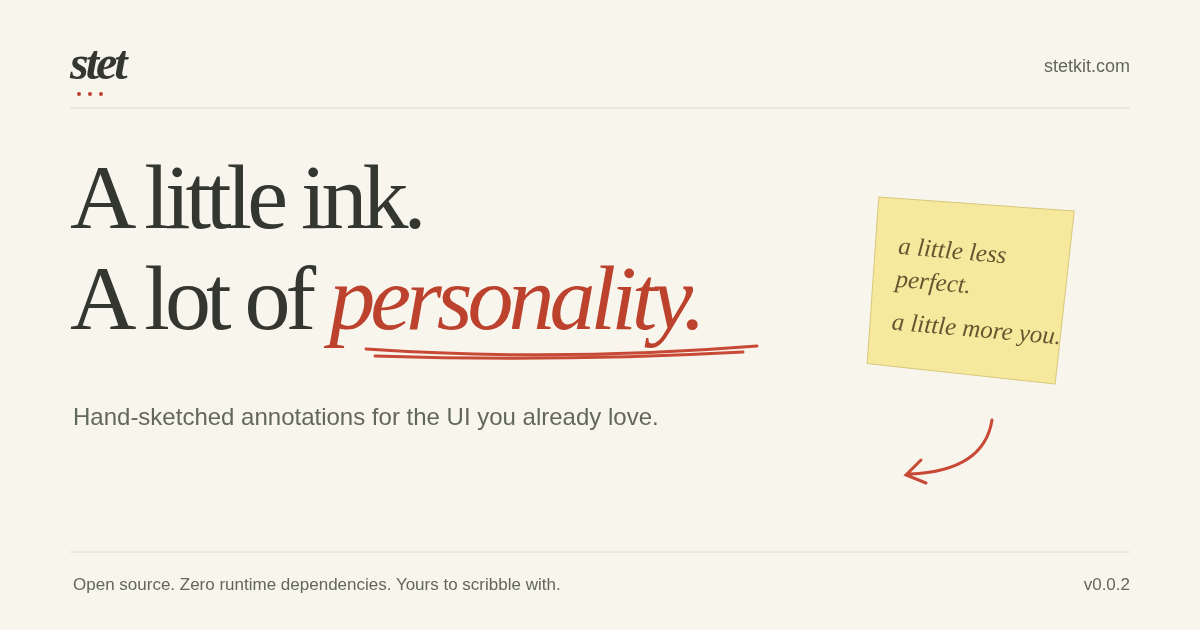
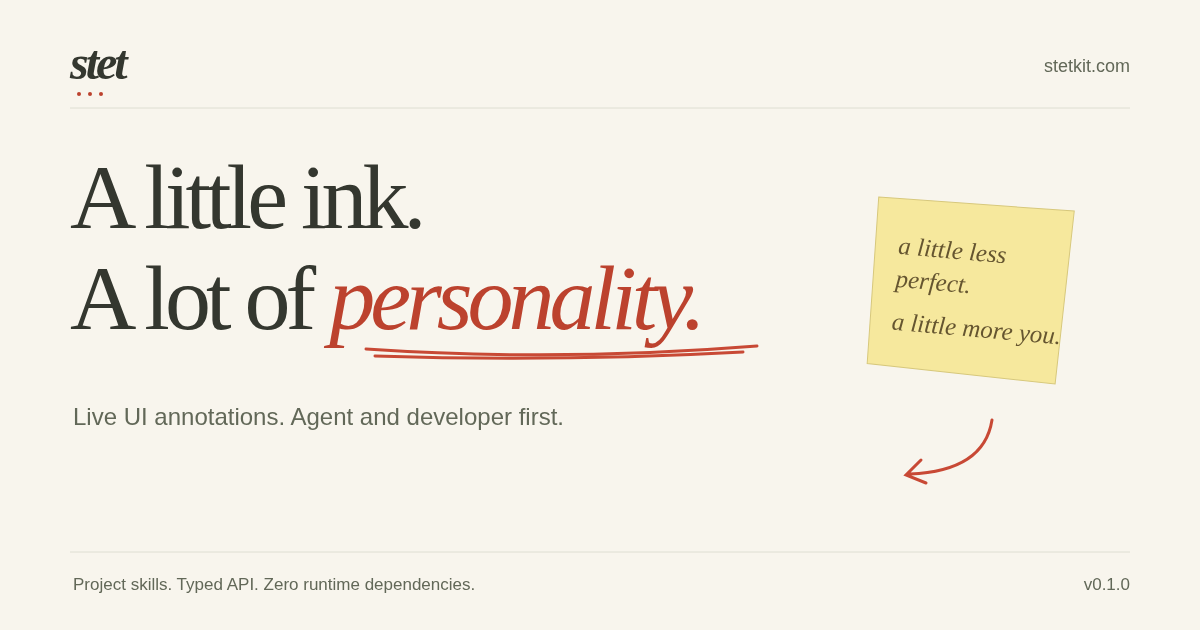
Present Stet as agent and developer first across docs and website

Changed region(s): [[0.0617, 0.6333, 0.555, 0.6937], [0.0617, 0.9048, 0.4625, 0.9349], [0.925, 0.9048, 0.9558, 0.9349]]

diff --git a/website/src/pages/Home.tsx b/website/src/pages/Home.tsx
@@ -9,13 +9,13 @@ import { HeroDemo } from '../components/HeroDemo';
 import { Sketchbook } from '../components/Sketchbook';
 export function Home() {
   const personality = useRef<HTMLElement>(null);
-  usePageMeta('stet — a little ink, a lot of personality', '/');
+  usePageMeta('stet — live UI annotations for agents and developers', '/');
   return (
     <main id="main">
       <section className="hero">
         <div className="hero-copy">
-          <a className="release-pill" href="https://www.npmjs.com/package/@funsaized/stet/v/0.0.2">
-            <span className="status-dot" /> Fresh off the drawing board <span>v0.0.2 ↗</span>
+          <a className="release-pill" href="https://www.npmjs.com/package/@funsaized/stet/v/0.1.0">
+            <span className="status-dot" /> Fresh off the drawing board <span>v0.1.0 ↗</span>
           </a>
           <h1>
             A little ink.
@@ -32,8 +32,8 @@ export function Home() {
             width={2.8}
           />
           <p className="hero-description">
-            Hand-sketched annotations for the UI you already love. Circle the good stuff. Leave a
-            little note. Make the internet feel human.
+            Hand-sketched annotations for live UI. Built for coding agents and developers, with
+            project skills and a typed API that work on the controls you already have.
           </p>
           <div className="hero-actions">
             <Link className="button primary" to="/playground">
@@ -72,13 +72,16 @@ export function Home() {
       </div>
       <section id="install" className="principles section">
         <div className="principles-intro">
-          <span className="eyebrow">02 / SMALL TOOLKIT. BIG FEELING.</span>
+          <span className="eyebrow">02 / AGENT AND DEVELOPER FIRST.</span>
           <h2>
-            A guest in your UI.
+            Your agent. Your code.
             <br />
-            <em>A very good guest.</em>
+            <em>The same little marks.</em>
           </h2>
-          <p>One install. A layer of character. All the things you already built, still yours.</p>
+          <p>
+            Install Stet, then add marks with your coding agent or write them yourself. Your UI
+            keeps its layout, focus, and clicks.
+          </p>
           <CopyButton value={INSTALL} className="install-command">
             <span className="dollar">$</span>
             <code>{INSTALL}</code>
@@ -91,25 +94,25 @@ export function Home() {
               <Icon name="check" size={14} /> TypeScript ready
             </span>
           </div>
-          <Link to="/docs" hash="how-it-works" className="text-link">
-            A peek under the paper <Icon name="arrow" size={16} />
+          <Link to="/docs" hash="quickstart" className="text-link">
+            Choose your starting point <Icon name="arrow" size={16} />
           </Link>
         </div>
         <div className="principle-grid">
           <article>
             <span className="principle-icon">⌘</span>
-            <h3>Your controls stay yours.</h3>
+            <h3>Start with your agent.</h3>
             <p>
-              Real buttons. Real inputs. Same focus, clicks, and semantics. Just a little more
-              character.
+              Project skills guide annotation choices, validate plans, and provide examples for your
+              framework. Supports Codex, Claude Code, Cursor, and OpenCode.
             </p>
           </article>
           <article>
             <span className="principle-icon light">0</span>
-            <h3>Travels light.</h3>
+            <h3>Start with the API.</h3>
             <p>
-              No runtime dependencies in the core. Just a small toolkit of SVG marks, ready to make
-              a point.
+              Typed primitives and framework adapters let you attach marks directly. The browser
+              core has zero runtime dependencies.
             </p>
           </article>
           <article>

diff --git a/website/src/pages/Docs.tsx b/website/src/pages/Docs.tsx
@@ -12,6 +12,8 @@ export function Docs() {
       <aside className="docs-sidebar">
         <span className="eyebrow">THE FIELD GUIDE</span>
         <a href="#quickstart">Get started</a>
+        <a href="#agents">With your coding agent</a>
+        <a href="#developers">With the API</a>
         <a href="#how-it-works">How it works</a>
         <a href="#api">The six primitives</a>
         <a href="#options">Make it yours</a>
@@ -25,23 +27,58 @@ export function Docs() {
       </aside>
       <div className="docs-content">
         <section id="quickstart">
-          <span className="eyebrow">STET v0.0.2 / DOCUMENTATION</span>
+          <span className="eyebrow">STET v0.1.0 / DOCUMENTATION</span>
           <h1>
             Your first <em>little mark.</em>
           </h1>
           <p className="docs-lead">
-            Stet draws on top of your existing interface. Start with a button, add a circle, and
-            keep everything that already works.
+            Built for coding agents and developers. Install Stet, then use project skills with your
+            agent or attach annotations directly through the typed API. Your existing UI keeps its
+            controls and layout.
           </p>
-          <h2>1. Open the pencil case</h2>
+          <h2>Install Stet</h2>
           <CopyButton value={INSTALL} className="install-command">
             <code>{INSTALL}</code>
           </CopyButton>
           <p>
             Stet is ESM only. The core has no runtime dependencies; install your chosen framework
-            separately. Version 0.0.2 is an early release, so the examples pin the version.
+            separately. Version 0.1.0 is an early release, so the examples pin the version.
           </p>
-          <h2>2. Give something a little attention</h2>
+        </section>
+        <section id="agents">
+          <h2>With your coding agent</h2>
+          <p>
+            Install Stet’s project skills from your app directory. The CLI requires Node.js 20 or
+            newer.
+          </p>
+          <CopyButton value="npx stet agent init --tool codex" className="install-command">
+            <code>npx stet agent init --tool codex</code>
+          </CopyButton>
+          <p>
+            Choose <code>codex</code>, <code>claude</code>, <code>cursor</code>, or{' '}
+            <code>opencode</code> for your tool. The skills cover implementation, UI review,
+            educational feedback, and feature emphasis.
+          </p>
+          <p>Try a request like:</p>
+          <blockquote>
+            Use Stet to annotate this settings screen. Draw attention to the fields that need
+            review, preserve the existing layout and controls, and check the result in the browser.
+          </blockquote>
+          <p>
+            The agent inspects your project and installed capabilities, validates an annotation
+            plan, and adapts a framework example. Review the source and live result together: a
+            valid plan cannot prove that a mark points to the right control or leaves text readable.
+          </p>
+          <a className="text-link" href={`${REPO}/blob/master/docs/agent-usage.md`}>
+            Agent setup and workflow <Icon name="external" size={16} />
+          </a>
+        </section>
+        <section id="developers">
+          <h2>With the API</h2>
+          <p>
+            Attach a mark to a real element. Choose your framework for an example with setup and
+            cleanup.
+          </p>
           <FrameworkCode />
           <p>
             Always import the stylesheet. In React, annotation components render nothing and attach

diff --git a/website/index.html b/website/index.html
@@ -6,20 +6,20 @@
     <meta name="theme-color" content="#f8f5ed" />
     <meta
       name="description"
-      content="A little ink. A lot of personality. Stet adds hand-sketched circles, highlights, arrows, and notes to your live UI. Zero runtime dependencies. For React, Vue, Svelte, Angular, and vanilla JavaScript."
+      content="Hand-sketched UI annotations, built for coding agents and developers. Project skills, validated plans, and a typed API for React, Vue, Svelte, Angular, and vanilla JavaScript."
     />
     <link rel="canonical" href="https://stetkit.com/" />
     <link rel="icon" type="image/svg+xml" href="/favicon.svg" />
     <meta property="og:type" content="website" />
     <meta property="og:url" content="https://stetkit.com/" />
-    <meta property="og:title" content="stet — a little ink, a lot of personality" />
+    <meta property="og:title" content="stet — live UI annotations for agents and developers" />
     <meta
       property="og:description"
-      content="Hand-sketched annotations for the UI you already love. Open source, framework friendly, and just a little imperfect."
+      content="Agent and developer first. Add hand-sketched annotations with project skills or the typed API, while your controls stay yours."
     />
     <meta property="og:image" content="https://stetkit.com/social.png" />
     <meta name="twitter:card" content="summary_large_image" />
-    <title>stet — a little ink, a lot of personality</title>
+    <title>stet — live UI annotations for agents and developers</title>
   </head>
   <body>
     <div id="root"></div>

diff --git a/website/src/components/Layout.tsx b/website/src/components/Layout.tsx
@@ -40,8 +40,8 @@ export function Layout() {
         <div className="footer-bottom">
           <span>© {new Date().getFullYear()} stet · MIT licensed</span>
           <span className="handwritten">leave your mark.</span>
-          <a href="https://www.npmjs.com/package/@funsaized/stet/v/0.0.2">
-            v0.0.2 <span className="status-dot" />
+          <a href="https://www.npmjs.com/package/@funsaized/stet/v/0.1.0">
+            v0.1.0 <span className="status-dot" />
           </a>
         </div>
       </footer>

diff --git a/website/tests/homepage.spec.ts b/website/tests/homepage.spec.ts
@@ -138,7 +138,7 @@ test('copy controls copy the pinned install command and current example', async 
   await page.locator('.install-inline').click();
   await expect
     .poll(() => page.evaluate(() => navigator.clipboard.readText()))
-    .toBe('npm install @funsaized/stet@0.0.2');
+    .toBe('npm install @funsaized/stet@0.1.0');
   await page.goto('/playground');
   await page.locator('.mini-code').getByRole('button', { name: 'Copy code' }).click();
   await expect

diff --git a/website/src/constants.ts b/website/src/constants.ts
@@ -1,5 +1,5 @@
 export const REPO = 'https://github.com/funsaized/stet';
-export const INSTALL = 'npm install @funsaized/stet@0.0.2';
+export const INSTALL = 'npm install @funsaized/stet@0.1.0';
 export const kinds = ['circle', 'underline', 'highlight', 'arrow', 'sticky', 'mark'] as const;
 export type Kind = (typeof kinds)[number];
 export const descriptions: Record<Kind, [string, string]> = {

diff --git a/README.md b/README.md
@@ -1,7 +1,12 @@
 # stet
 
-Hand-sketched margin marks on live UI. Add circles, highlights, arrows, notes,
-and proofreader marks without replacing your controls or layout.
+Hand-sketched annotations for live UI, built for coding agents and developers.
+Add circles, highlights, arrows, notes, and proofreader marks while your
+application keeps its controls and layout.
+
+Agent and developer first: work with your coding agent through project skills,
+validated plans and framework examples, or write annotations directly with the
+typed JavaScript API. Both workflows use the same primitives and lifecycle.
 
 The API is under active development and may change
 before 1.0. Pin an exact version if you need predictable upgrades.
@@ -12,8 +17,41 @@ Use `@funsaized/stet` in installation commands and imports.
 ![STET annotating a working release form with pen marks and a paper note](docs/visual/vanilla-after.png)
 
 ```sh
-npm install @funsaized/stet
+npm install @funsaized/stet@0.1.0
 ```
+
+## Start with an agent or the API
+
+### With your coding agent
+
+Stet ships four Agent Skills, installed-version capability inspection, validated
+annotation plans, recoverable skill installation, project discovery, and
+framework/lifecycle examples.
+
+After installing `@funsaized/stet`, install project skills for your coding agent:
+
+```sh
+npx stet agent init --tool codex
+# Also supports claude, cursor and opencode.
+```
+
+For deterministic automation, use the installed binary directly:
+
+```sh
+./node_modules/.bin/stet inspect --project . --json
+./node_modules/.bin/stet snippet --pattern lifecycle --framework react
+./node_modules/.bin/stet validate annotation-plan.json --json
+```
+
+The agent decides what deserves annotation, validates a source-target plan,
+adapts a framework-correct snippet, then checks the application. Plans are
+build-time tools and never replace your controls or become runtime selectors.
+The CLI requires Node.js 20+; browser imports do not load agent infrastructure.
+See the [agent guide](docs/agent-usage.md) for setup, targeting and verification,
+and [actual evaluation results](docs/agent-evals.md) for measured outcomes,
+retained failures and limitations.
+
+### Write the annotations yourself
 
 ```js
 import { circle } from "@funsaized/stet";
@@ -62,36 +100,6 @@ installing stet does not install those frameworks. React and Angular adapters
 use their frameworks at runtime. The Vue adapter imports only Vue types, and
 the Svelte adapter has no Svelte runtime import. Build and test tools are
 development dependencies and are not installed as dependencies in your app.
-
-## Coding agents
-
-Stet also ships an optional agent layer: installed-version capability inspection,
-validated annotation plans, recoverable skill installation, project discovery,
-canonical framework/lifecycle examples and four Agent Skills.
-The normal runtime API above stays the same.
-
-After installing `@funsaized/stet`, install project skills for your coding agent:
-
-```sh
-npx stet agent init --tool codex
-# Also supports claude, cursor and opencode.
-```
-
-For deterministic automation, use the installed binary directly:
-
-```sh
-./node_modules/.bin/stet inspect --project . --json
-./node_modules/.bin/stet snippet --pattern lifecycle --framework react
-./node_modules/.bin/stet validate annotation-plan.json --json
-```
-
-The agent decides what deserves annotation, validates a source-target plan,
-adapts a framework-correct snippet, then checks the application. Plans are
-build-time tools and never replace your controls or become runtime selectors.
-The CLI requires Node.js 20+; browser imports do not load agent infrastructure.
-See the [agent guide](docs/agent-usage.md) for setup, targeting and verification,
-and [actual evaluation results](docs/agent-evals.md) for measured outcomes,
-retained failures and limitations.
 
 ## Documentation
 

diff --git a/website/README.md b/website/README.md
@@ -1,8 +1,9 @@
 # stetkit.com
 
 The Stet product homepage, built with Vite, React, TypeScript, and TanStack Router.
-The demonstrations use the published `@funsaized/stet@0.0.2` package, including its
-React adapters. This is a standalone app: it does not change the library build or
+The demonstrations use the published `@funsaized/stet@0.1.0` package, including its
+React adapters. The homepage and docs introduce both agent and developer workflows,
+with project-skill setup alongside direct framework examples. This is a standalone app: it does not change the library build or
 require files outside `website/`.
 
 ## Development

diff --git a/CHANGELOG.md b/CHANGELOG.md
@@ -2,7 +2,7 @@
 
 ## 0.1.0 — 2026-09-06
 
-- Add a separate agent authoring layer with typed annotation plans, generated
+- Add agent authoring tools alongside the typed runtime API with typed annotation plans, generated
   schemas/capabilities, actionable standalone validation, local CLI, 30 framework
   snippets, five persistent-control lifecycle patterns and four project-installable
   Agent Skills. Existing runtime APIs are unchanged.
